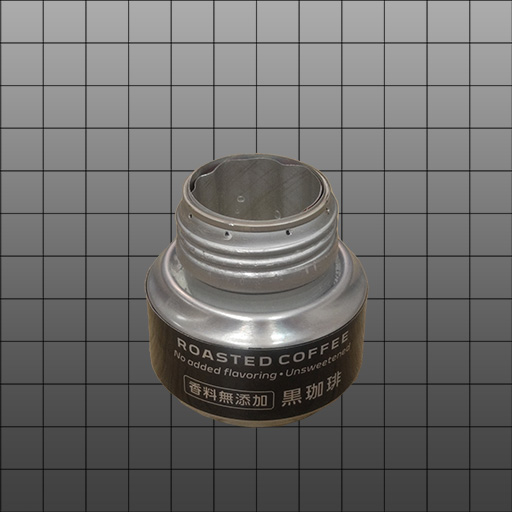
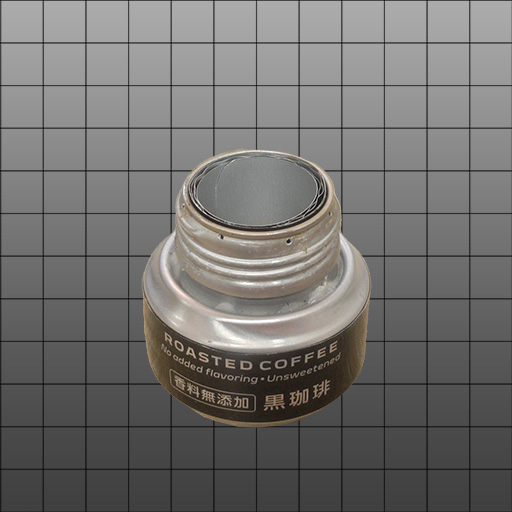
edit stove and windscreen

Changed region(s): [[0.2812, 0.2812, 0.75, 0.8438]]

diff --git a/alcoholstove_current.html b/alcoholstove_current.html
@@ -1101,22 +1101,28 @@
 		
 		<!-- 🟥🟥🟥🟥🟥🟥🟥🟥🟥🟥🟥🟥🟥🟥🟥🟥🟥🟥🟥🟥🟥🟥🟥🟥🟥🟥🟥🟥🟥🟥🟥🟥🟥🟥🟥🟥🟥🟥🟥🟥🟥🟥🟥🟥🟥🟥🟥🟥🟥🟥🟥🟥🟥🟥🟥🟥🟥🟥🟥🟥🟥🟥🟥🟥🟥🟥🟥🟥🟥🟥🟥🟥🟥🟥🟥🟥🟥🟥🟥🟥🟥🟥🟥🟥🟥🟥🟥🟥🟥🟥🟥🟥🟥🟥🟥🟥🟥🟥🟥🟥🟥🟥🟥🟥🟥🟥🟥🟥🟥🟥🟥🟥 -->
 		<div class="box" align="left" data-section="密封罐酒精爐">		
-			<h3>密封罐酒精爐 <span class="tealbox tag">#雙層加壓</span> <span class="greenbox tag">ＤＩＹ</span> <span class="lightgreenbox tag">🛠&#xFE0F;進階</span> <span class="rating">★★★★☆</span></h3>
+			<h3><redheart></redheart>密封罐酒精爐 <span class="tealbox tag">#毛細管道</span> <span class="tealbox tag">#雙層加壓</span>  <span class="greenbox tag">ＤＩＹ</span> <span class="lightgreenbox tag">🛠&#xFE0F;進階</span> <span class="rating">★★★★*</span></h3>
 			<specification>寬：53mm / 高：55mm / 重：21g</specification>
 			
 			<p>使用UCC274ML瓶口與兩個UUC184ML接合，瓶口接合的部分使用鑄工膠固定與填滿縫隙避免滲漏。蓋上蓋子後可短期存放多餘的酒精，就不一定要讓酒精全部燒完。</p>
+			<div class="tipbox"><tipicon></tipicon>但不建議完全蓋緊密封，而是稍微轉鬆一點並且放入夾鏈袋中，避免變換海拔時，大氣壓力由小變大，導致罐子被大氣壓力壓扁。</div>
 			<p>
 				<img loading="lazy" class="stoveimg lazy-img" src="images/stove/small/82.jpg" width="512"/>
 				<img loading="lazy" class="stoveimg lazy-img" src="images/stove/small/82A.jpg" width="512"/>
 			</p>
-			<p>因為高度高且瓶口窄，合併使用波浪摺痕技法與雙層加壓壁，且只能用高濃度酒精。</p>
+			<p>因為高度高且瓶口窄，合併使用波浪摺痕技法與雙層加壓壁，<span class="lightgreenbox">只能用高濃度酒精</span>，且要<span class="lightgreenbox">用火柴、或棉花棒沾酒精，燃燒內壁頂端一段時間</span>等待啟動。</p>
 			<p>波浪摺痕可以增加毛細/虹吸現象，快速啟動燃燒，初期會以毛細管道方式燃燒；燃燒一段時間外層腔體內溫度升高開始汽化則會改由雙層加壓主導。</p>
-			<p>使用20ML 99%乙醇燃燒300ML常溫水，約10分鐘水滾，整個燒完約20分鐘，意外的很省燃料。</p>
+			<p>使用20ML 99%乙醇燃燒300ML常溫水，約10分鐘水滾，整個燒完約20分鐘，意外的很省燃料。後續做新的內壁結構置換後重燒測試，15ML99%乙醇在6分鐘時大火，總時長也是燒了15分鐘，沒有太大改變。</p>
 			<p>
 				<img loading="lazy" class="stoveimg lazy-img" src="images/stove/small/82B.jpg" width="512"/>
 				<img loading="lazy" class="stoveimg lazy-img" src="images/stove/small/82C.jpg" width="512"/>
 			</p>
-			<p>不過因為鑄工膠膠合很難完全1:1的完全混合，燃燒時一些殘留物還是會產生黃火並造成黑鍋，並且燃燒完畢後內可以洗出灰灰的水，內壁也黏黏的。長期密封性尚待驗證。</p>
+			<p>不過因為鑄工膠膠合很難完全1:1的完全混合，初幾次燃燒時一些殘留物還是會產生黃火並造成黑鍋，並且燃燒完畢後內可以洗出灰灰的水，內壁也黏黏的。</p>
+			<p>但好在內壁不是黏死結構而是單純捲進去而已，做新的內壁結構置換後，燃燒就比較正常沒有太多黃火了。不過長期密封性尚待驗證。</p>
+			<p>後續新增滅火蓋，黏貼鐵片與磁鐵來吸附（發現薄片磁鐵不夠力，所以底部也額外吸上另一顆磁鐵）：<br>
+				<img loading="lazy" class="stoveimg lazy-img" src="images/stove/small/82E.jpg" width="512"/>
+				<img loading="lazy" class="stoveimg lazy-img" src="images/stove/small/82F.jpg" width="512"/>
+			</p>
 		</div>
 		<div align="center"><a href="#sectionIndex">△回到索引</a></div>
 		

diff --git a/alcoholstove_windscreen.html b/alcoholstove_windscreen.html
@@ -95,6 +95,10 @@
 				<img loading="lazy" class="stoveimg lazy-img" src="images/windscreen/small/04O.jpg" width="512"/>
 				<img loading="lazy" class="stoveimg lazy-img" src="images/windscreen/small/04P.jpg" width="512"/>
 			</p>
+			<p>
+				後續額外新增的上擋風板，增加包覆面積：<br>
+				<img loading="lazy" class="stoveimg lazy-img" src="images/windscreen/small/04R.jpg" width="512"/>
+			</p>
 		</div>
 		<div align="center"><a href="#sectionIndex">△回到索引</a></div>
 		
